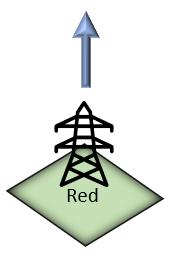
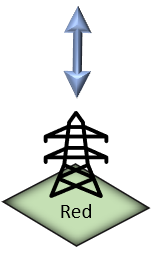
Cambios
Se hizo cambios en la sección de topologia, metricas de las variables meteorologicas, se amplió el catálogo y se hizo una respectiva explicación en cada sección y se explicaron las gráficas de los paneles solares

Changed region(s): [[0.0, 0.0277, 0.9873, 0.996]]

diff --git a/app.py b/app.py
@@ -244,37 +244,37 @@ if menu_select == menu_options[0]:
 
     st.header("Topología de la microrred ⚡")
     
-    options = st.multiselect('¿Qué activos tiene la microrred?',
-            ["Módulos fotovoltaicos","Red",'Generador', 'Sistema de almacenamiento (ESS)', "Aerogenerador"],["Módulos fotovoltaicos",'Sistema de almacenamiento (ESS)'])
+    options = st.multiselect(
+        '¿Qué activos tiene la microrred?',
+        ["Módulos fotovoltaicos","Red",'Generador', 'Sistema de almacenamiento (ESS)',"Aerogenerador"],["Módulos fotovoltaicos",'Sistema de almacenamiento (ESS)'])
 
         #GENERAR diagrama
         
-    fondo=Image.open("Imagenes/"+"fondo.PNG").convert("RGBA")
+    fondo=Image.open("imagenes/"+"fondo.PNG").convert("RGBA")
+
+    img12=Image.open("imagenes/"+"Carga.PNG").convert("RGBA").resize((145, 250))
+    fondo.paste(img12,(635,0),img12)
 
     if 'Red'in options:
-        img=Image.open("Imagenes/"+"Red.PNG").convert("RGBA").resize((170, 200))
-        fondo.paste(img,(620,470),img)
+        img=Image.open("imagenes/"+"Red.PNG").convert("RGBA").resize((170, 280))
+        fondo.paste(img,(630,490),img)
         
     if 'Aerogenerador'in options:
-        img2=Image.open("Imagenes/"+"Aerogenerador.PNG").convert("RGBA").resize((230, 190))
-        fondo.paste(img2,(330,75),img2)
+        img2=Image.open("imagenes/"+"Aerogenerador.PNG").convert("RGBA").resize((220, 200))
+        fondo.paste(img2,(350,75),img2)
         
         
     if 'Módulos fotovoltaicos'in options:
-        img1=Image.open("Imagenes/"+"panel.PNG").convert("RGBA").resize((280, 188))
-        fondo.paste(img1,(270,250),img1)
+        img1=Image.open("imagenes/"+"panel.PNG").convert("RGBA").resize((290, 188))
+        fondo.paste(img1,(260,257),img1)
 
     if 'Generador'in options:
-        img3=Image.open("Imagenes/"+"generador.PNG").convert("RGBA").resize((220, 170))
-        fondo.paste(img3,(795,450),img3)
+        img3=Image.open("imagenes/"+"generador.PNG").convert("RGBA").resize((230, 190))
+        fondo.paste(img3,(795,472),img3)
 
-    if 'Sistema de almacenamiento (ESS)' in options:
-        img4=Image.open("Imagenes/"+"almacenamiento.PNG").convert("RGBA").resize((300, 150))
-        fondo.paste(img4,(867,295),img4)
-
-    
-    img12=Image.open("Imagenes/"+"Carga.PNG").convert("RGBA").resize((145, 230))
-    fondo.paste(img12,(625,0),img12)
+    if 'Sistema de almacenamiento (ESS)'in options:
+        img4=Image.open("imagenes/"+"almacenamiento.PNG").convert("RGBA").resize((300, 150))
+        fondo.paste(img4,(900,310),img4)
         
     st.image(fondo,use_column_width="auto")
 
@@ -436,6 +436,10 @@ if menu_select == menu_options[0]:
 
         st.header("Selección de inversores híbridos :electric_plug:")        
         
+        st.write("En esta sección puedes seleccionar un inversor híbrido de nuestro catálogo o crear uno propio.")
+        
+        st.info("Si vas a crear uno debes conocer todas las especificaciones del producto.")
+        
         data_model["inverters"] = {}
 
         df_grid_CH, gridOptions_CH = interactive_table(ConH)
@@ -459,6 +463,10 @@ if menu_select == menu_options[0]:
         st.markdown("""<hr style="border:2px dashed Salmon;border-radius:5px;" /> """, unsafe_allow_html=True)
 
         st.header("Selección de los módulos fotovoltaicos :large_blue_diamond:")
+        
+        st.write("En esta sección puedes seleccionar un módulo fotovoltaico de nuestro catálogo o crear uno propio.")
+        
+        st.info("Si vas a crear uno debes conocer todas las especificaciones del producto.")
         
         image_panel = Image.open('Imagenes/Panel.jpeg')
 
@@ -494,6 +502,7 @@ if menu_select == menu_options[0]:
                 data_model["pv_modules"]["Pmpp"].index.name = "Fecha"
                 with st.expander("Desplegar cálculos de los módulos"):
                     
+                    st.write("En esta sección podrás observar la potencia generada por el módulo fotovoltaico seleccionado y su respectiva eficiencia a lo largo del año bajo estudio.")
                     
                     #color = ["#"+''.join([random.choice('0123456789ABCDEF') for j in range(6)]) for i in range(len(PV_names))]
                     st_echarts(options=createline_echart(data_model["pv_modules"]["Pmpp"].reset_index(), "Fecha", PV_names, PV_names, "Fecha", "kW", [], x_date = True) , height="400px")
@@ -513,6 +522,10 @@ if menu_select == menu_options[0]:
         
         st.header("Selección de los almacenadores :battery:")
         
+        st.write("En esta sección puedes seleccionar un almacenador de nuestro catálogo o crear uno propio.")
+        
+        st.info("Si vas a crear uno debes conocer todas las especificaciones del producto.")
+        
         data_model["batteries"] = {}
 
         df_grid_BT, gridOptions_BT = interactive_table(Battype)
@@ -529,6 +542,11 @@ if menu_select == menu_options[0]:
 
         st.markdown("""<hr style="border:2px dashed Salmon;border-radius:5px;" /> """, unsafe_allow_html=True)    
         st.header("Selección de generadores eólicos :wind_chime:")    
+        
+        st.write("En esta sección puedes seleccionar un aerogenerador de nuestro catálogo o crear uno propio.")
+        
+        st.info("Si vas a crear uno debes conocer todas las especificaciones del producto.")
+        
         st.subheader("Catálogo de generadores eólicos")   
     
         

diff --git a/funciones.py b/funciones.py
@@ -17,7 +17,7 @@ def load_cat():
     # Cargar datos de módulos PV
     PVtype = pd.read_excel('Catalogo.xlsx',sheet_name='PVModules',header=0,index_col=0)
     # Cargar datos de módulos de Batt
-    Battype = pd.read_excel('Catalogo.xlsx',sheet_name='BattModules',header=0,index_col=0)
+    Battype = pd.read_excel('Catalogo.xlsx',sheet_name='BattModuleS',header=0,index_col=0)
     # Cargar datos de generadores
     Gens = pd.read_excel('Catalogo.xlsx',sheet_name='Generator',header=0,index_col=0)
     # Cargar datos de Convertidores híbridos
@@ -232,7 +232,7 @@ def createfig_heatmap(df, col, fechas, binary, units):
 @st.cache
 def generate_metrics(df, col, units):
     metrics = pd.DataFrame(data={"Valor":[df[col].mean(),df[col].min(),df[col].max()],
-                                         "Unidad": [units,units,units]}, index = ["Media","Mínimo","Máximo"])
+                                         "Unidad": [units,units,units]}, index = ["Media anual","Mínimo anual","Máximo anual"])
     metrics.index.name = "Métrica"
 
     return metrics
